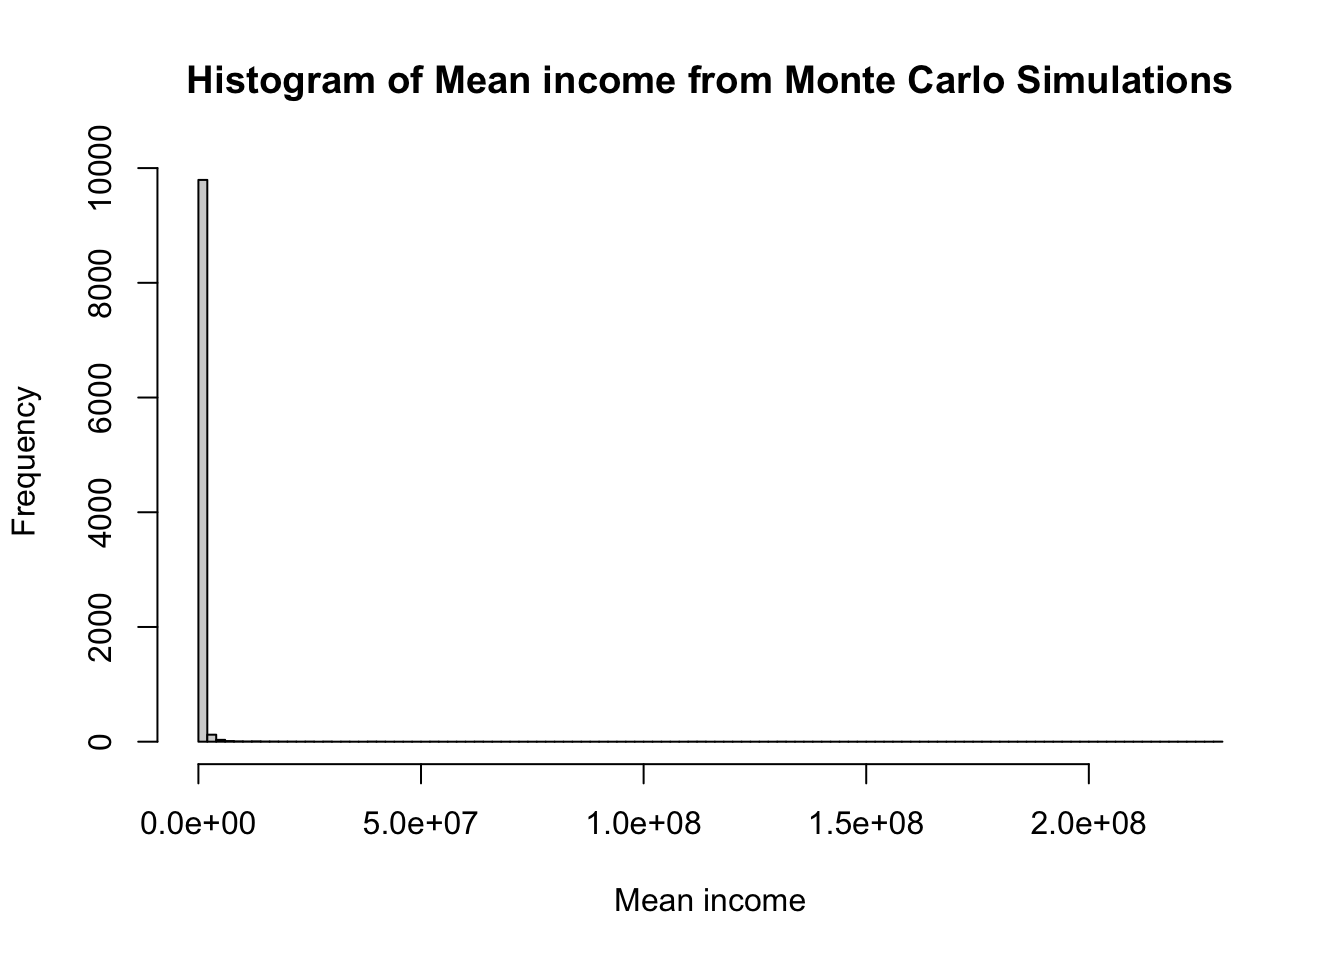
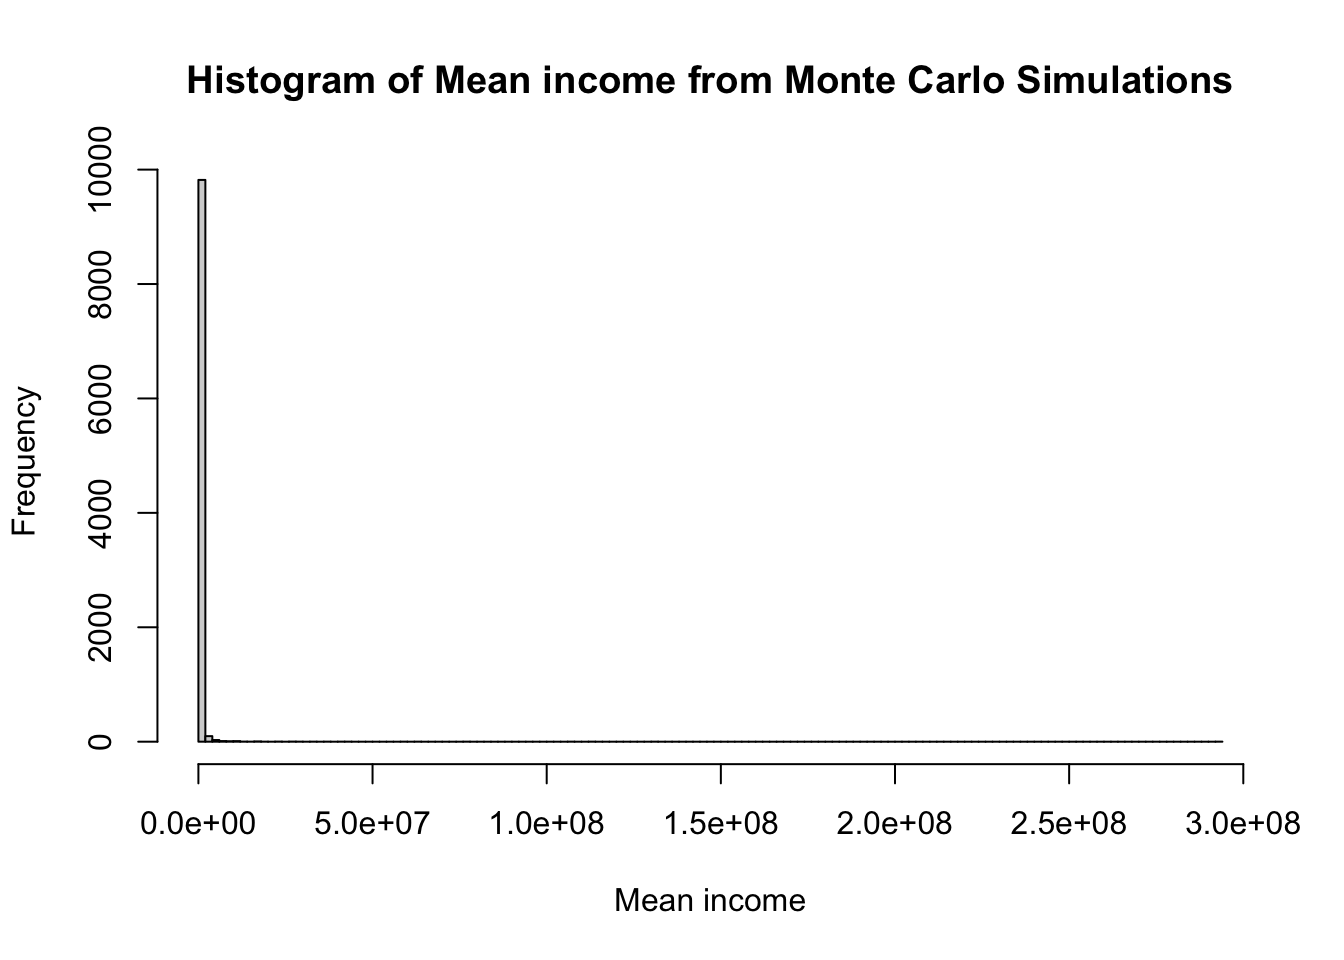
o11

diff --git a/docs/Catallactics/Personal/pricing.html b/docs/Catallactics/Personal/pricing.html
@@ -6,7 +6,7 @@
 
 <meta name="viewport" content="width=device-width, initial-scale=1.0, user-scalable=yes">
 
-<meta name="dcterms.date" content="2024-06-02">
+<meta name="dcterms.date" content="2024-06-03">
 
 <title>knotes - Hedge pricing</title>
 <style>
@@ -772,7 +772,37 @@ cookieconsent.run({
 <div id="quarto-sidebar-glass" class="quarto-sidebar-collapse-item" data-bs-toggle="collapse" data-bs-target=".quarto-sidebar-collapse-item"></div>
 <!-- margin-sidebar -->
     <div id="quarto-margin-sidebar" class="sidebar margin-sidebar"><div class="quarto-margin-header"><div class="margin-header-item">
-<p>subscribe.html</p>
+<div id="mc_embed_shell">
+      <link href="//cdn-images.mailchimp.com/embedcode/classic-061523.css" rel="stylesheet" type="text/css">
+  <style type="text/css">
+        #mc_embed_signup{background:#fff; false;clear:left; font:14px Helvetica,Arial,sans-serif; width: px;}
+        /* Add your own Mailchimp form style overrides in your site stylesheet or in this style block.
+           We recommend moving this block and the preceding CSS link to the HEAD of your HTML file. */
+</style>
+<div id="mc_embed_signup">
+    <form action="https://knotes.us17.list-manage.com/subscribe/post?u=cbd11e712b45e98cdaab2dd4d&amp;id=aeaca1e768&amp;f_id=00dbc2e1f0" method="post" id="mc-embedded-subscribe-form" name="mc-embedded-subscribe-form" class="validate" target="_blank">
+        <div id="mc_embed_signup_scroll"><h2>Subscribe</h2>
+            <div class="indicates-required"><span class="asterisk">*</span> indicates required</div>
+            <div class="mc-field-group"><label for="mce-EMAIL">Email Address <span class="asterisk">*</span></label><input type="email" name="EMAIL" class="required email" id="mce-EMAIL" required="" value=""></div>
+        <div id="mce-responses" class="clear foot">
+            <div class="response" id="mce-error-response" style="display: none;"></div>
+            <div class="response" id="mce-success-response" style="display: none;"></div>
+        </div>
+    <div aria-hidden="true" style="position: absolute; left: -5000px;">
+        /* real people should not fill this in and expect good things - do not remove this or risk form bot signups */
+        <input type="text" name="b_cbd11e712b45e98cdaab2dd4d_aeaca1e768" tabindex="-1" value="">
+    </div>
+        <div class="optionalParent">
+            <div class="clear foot">
+                <input type="submit" name="subscribe" id="mc-embedded-subscribe" class="button" value="Subscribe">
+                
+            </div>
+        </div>
+    </div>
+</form>
+</div>
+<script type="text/javascript" src="//s3.amazonaws.com/downloads.mailchimp.com/js/mc-validate.js"></script><script type="text/javascript">(function($) {window.fnames = new Array(); window.ftypes = new Array();fnames[0]='EMAIL';ftypes[0]='email';fnames[1]='FNAME';ftypes[1]='text';fnames[2]='LNAME';ftypes[2]='text';fnames[3]='ADDRESS';ftypes[3]='address';fnames[4]='PHONE';ftypes[4]='phone';fnames[5]='BIRTHDAY';ftypes[5]='birthday';}(jQuery));var $mcj = jQuery.noConflict(true);</script></div>
+
 </div></div>
         <nav id="TOC" role="doc-toc" class="toc-active">
     <h2 id="toc-title">On this page</h2>
@@ -805,7 +835,7 @@ cookieconsent.run({
     <div>
     <div class="quarto-title-meta-heading">Published</div>
     <div class="quarto-title-meta-contents">
-      <p class="date">June 2, 2024</p>
+      <p class="date">June 3, 2024</p>
     </div>
   </div>
   
@@ -889,7 +919,7 @@ attr(,"class")
 </section>
 <section id="option-pricing-calculation" class="level2">
 <h2 class="anchored" data-anchor-id="option-pricing-calculation">Option pricing calculation</h2>
-<p>Aim for a strike <strong>less than 10 delta.</strong></p>
+<p>Aim for a strike <strong>less than 10 delta.</strong> Plugin the <strong>implied volatility</strong> and other data.</p>
 <div class="cell">
 <details class="code-fold">
 <summary>Code</summary>
@@ -978,7 +1008,7 @@ Summary
 <p><strong>§a</strong> passive - at the time of expiry.</p>
 <p><strong>§b</strong> Empirical multiples of Initial cost.&nbsp;</p>
 <p><strong>§a</strong> is ideal for long time horizon with potential big drawdown happening once or twice. <strong>§b</strong> out performs <strong>§a</strong> if no such tail events occur. In such a situation, even no-hedge strategy performs better than one with a hedge.&nbsp;</p>
-<p>For the hedging to outperform a pure buy and hold strategy with out hedging, it should be mortised at 8- 10 times the initial premium or a catastrophy should happen. In any case, the proceedings should be used to buy further far OTM puts and rest may be invested in the crashing asset.</p>
+<p>For the hedging to outperform a pure buy and hold strategy with out hedging, it should be monitised at 8- 10 times the initial premium or a catastrophy should happen. In any case, the proceedings should be used to buy further far OTM puts and rest may be invested in the crashing asset.</p>
 
 
 </section>

diff --git a/docs/posts/montecarlo.html b/docs/posts/montecarlo.html
@@ -6,7 +6,7 @@
 
 <meta name="viewport" content="width=device-width, initial-scale=1.0, user-scalable=yes">
 
-<meta name="dcterms.date" content="2024-06-02">
+<meta name="dcterms.date" content="2024-06-03">
 
 <title>knotes - Income distribution</title>
 <style>
@@ -873,7 +873,7 @@ window.Quarto = {
     <div>
     <div class="quarto-title-meta-heading">Published</div>
     <div class="quarto-title-meta-contents">
-      <p class="date">June 2, 2024</p>
+      <p class="date">June 3, 2024</p>
     </div>
   </div>
   
@@ -1011,7 +1011,7 @@ Income distribution is not normal
 </details>
 <div class="cell-output cell-output-stdout">
 <pre><code>     Min.   1st Qu.    Median      Mean   3rd Qu.      Max. 
-   214100    296189    345424    587175    435498 228597172 </code></pre>
+   211676    295605    342813    592498    433705 293671249 </code></pre>
 </div>
 <details open="" class="code-fold">
 <summary>Code</summary>
@@ -1019,7 +1019,7 @@ Income distribution is not normal
 </details>
 <div class="cell-output cell-output-stdout">
 <pre><code>   Min. 1st Qu.  Median    Mean 3rd Qu.    Max. 
-  62231   64070   64492   64503   64926   66929 </code></pre>
+  62100   64086   64510   64515   64945   67123 </code></pre>
 </div>
 <details open="" class="code-fold">
 <summary>Code</summary>
@@ -1027,7 +1027,7 @@ Income distribution is not normal
 </details>
 <div class="cell-output cell-output-stdout">
 <pre><code>     Min.   1st Qu.    Median      Mean   3rd Qu.      Max. 
-9.999e+05 3.308e+06 5.692e+06 2.929e+07 1.183e+07 2.283e+10 </code></pre>
+9.732e+05 3.335e+06 5.616e+06 2.984e+07 1.155e+07 2.931e+10 </code></pre>
 </div>
 </div>
 </section>

diff --git a/docs/posts.html b/docs/posts.html
@@ -959,9 +959,9 @@ Categories
 <span class="listing-categories">technology, ev</span>
 </td>
 </tr>
-<tr data-index="1" data-categories="Monte Carlo simulation,economics" data-listing-date-sort="1717266600000" data-listing-file-modified-sort="1716203287606" data-listing-date-modified-sort="NaN" data-listing-reading-time-sort="8" data-listing-word-count-sort="1412" data-listing-title-sort="Income distribution" data-listing-filename-sort="montecarlo.qmd">
+<tr data-index="1" data-categories="Monte Carlo simulation,economics" data-listing-date-sort="1717353000000" data-listing-file-modified-sort="1716203287606" data-listing-date-modified-sort="NaN" data-listing-reading-time-sort="8" data-listing-word-count-sort="1412" data-listing-title-sort="Income distribution" data-listing-filename-sort="montecarlo.qmd">
 <td>
-<span class="listing-date">Jun 2, 2024</span>
+<span class="listing-date">Jun 3, 2024</span>
 </td>
 <td>
 <a href="./posts/montecarlo.html" class="title listing-title">Income distribution</a>

diff --git a/docs/Revision notes/Diagrams/diagrams.html b/docs/Revision notes/Diagrams/diagrams.html
@@ -1291,7 +1291,7 @@ window.document.addEventListener("DOMContentLoaded", function (event) {
 </div>
   </div>
 </footer>
-<script>var lightboxQuarto = GLightbox({"descPosition":"bottom","openEffect":"zoom","selector":".lightbox","loop":false,"closeEffect":"zoom"});
+<script>var lightboxQuarto = GLightbox({"selector":".lightbox","closeEffect":"zoom","descPosition":"bottom","loop":false,"openEffect":"zoom"});
 window.onload = () => {
   lightboxQuarto.on('slide_before_load', (data) => {
     const { slideIndex, slideNode, slideConfig, player, trigger } = data;

diff --git a/docs/Catallactics/Personal/IMA SSS.html b/docs/Catallactics/Personal/IMA SSS.html
@@ -6,7 +6,7 @@
 
 <meta name="viewport" content="width=device-width, initial-scale=1.0, user-scalable=yes">
 
-<meta name="dcterms.date" content="2024-06-02">
+<meta name="dcterms.date" content="2024-06-03">
 
 <title>knotes - IMA SSS</title>
 <style>
@@ -805,7 +805,7 @@ cookieconsent.run({
     <div>
     <div class="quarto-title-meta-heading">Published</div>
     <div class="quarto-title-meta-contents">
-      <p class="date">June 2, 2024</p>
+      <p class="date">June 3, 2024</p>
     </div>
   </div>
   
